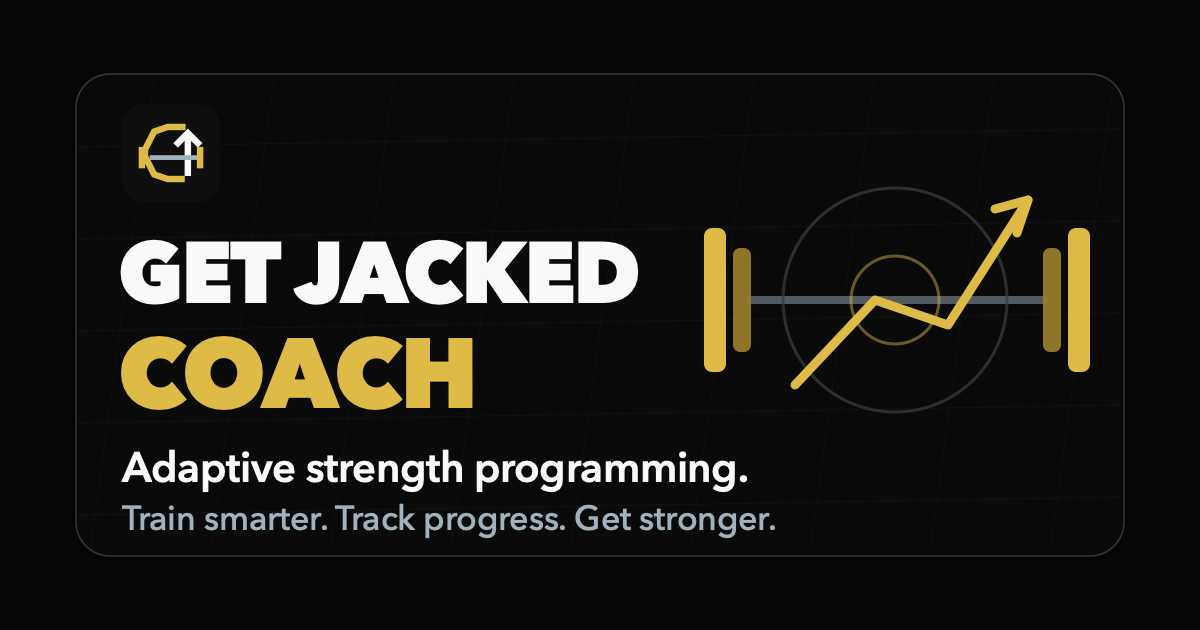
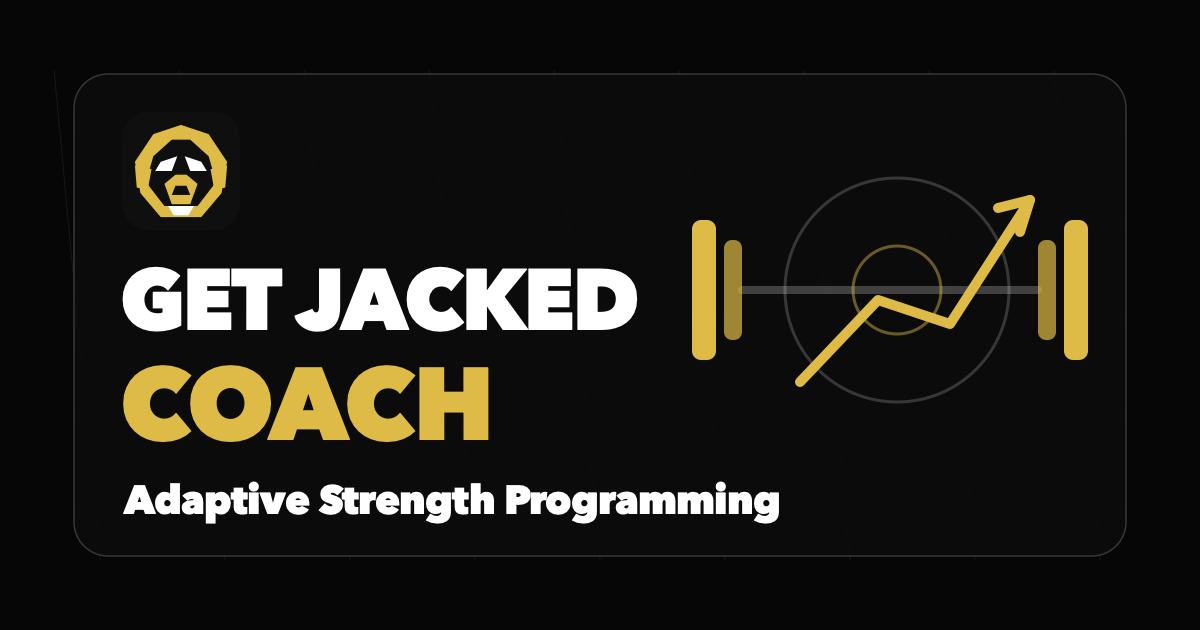
feat: redesign GetJackedCoach gorilla branding

diff --git a/frontend/src/components/Logo.jsx b/frontend/src/components/Logo.jsx
@@ -1,63 +1,76 @@
-function Logo({ showWordmark = true, className = '', markClassName = 'h-9 w-9' }) {
-  return (
-    <span className={`inline-flex items-center gap-3 ${className}`} aria-label="GetJackedCoach">
-      <svg
-        className={markClassName}
-        viewBox="0 0 64 64"
-        role="img"
-        aria-hidden="true"
-        xmlns="http://www.w3.org/2000/svg"
-      >
-        <rect width="64" height="64" rx="14" fill="#090A09" />
-        <path
-          d="M41.5 15H29.75C21.6 15 15 21.6 15 29.75v4.5C15 42.4 21.6 49 29.75 49H41"
-          fill="none"
-          stroke="#D4AF37"
-          strokeWidth="4"
-          strokeLinecap="square"
-          strokeLinejoin="miter"
-        />
-        <path
-          d="M43 47V19"
-          fill="none"
-          stroke="#F4F4F0"
-          strokeWidth="4"
-          strokeLinecap="square"
-        />
-        <path
-          d="M35 27L43 19L51 27"
-          fill="none"
-          stroke="#F4F4F0"
-          strokeWidth="4"
-          strokeLinecap="square"
-          strokeLinejoin="miter"
-        />
-        <path
-          d="M18 35H50"
-          fill="none"
-          stroke="#8FA3AD"
-          strokeWidth="3"
-          strokeLinecap="square"
-        />
-        <path d="M13 28V42M51 28V42" stroke="#D4AF37" strokeWidth="4" strokeLinecap="square" />
-        <path
-          d="M35.5 27.5C32.8 25.7 28.8 25.8 26.3 28.2C23 31.3 23.8 37.5 28 39.7C31.8 41.7 36.1 40 38.4 37.1"
-          fill="none"
-          stroke="#D4AF37"
-          strokeWidth="3"
-          strokeLinecap="square"
-          strokeLinejoin="miter"
-        />
-      </svg>
+const sizeClasses = {
+  sm: {
+    mark: 'h-7 w-7',
+    wordmark: 'text-[0.8rem]',
+    tagline: 'text-[0.48rem]',
+  },
+  md: {
+    mark: 'h-9 w-9',
+    wordmark: 'text-[0.95rem]',
+    tagline: 'text-[0.56rem]',
+  },
+  lg: {
+    mark: 'h-12 w-12',
+    wordmark: 'text-[1.15rem]',
+    tagline: 'text-[0.64rem]',
+  },
+};
 
-      {showWordmark && (
+function GorillaMark({ className = 'h-9 w-9' }) {
+  return (
+    <svg
+      className={className}
+      viewBox="0 0 64 64"
+      role="img"
+      aria-hidden="true"
+      xmlns="http://www.w3.org/2000/svg"
+    >
+      <rect width="64" height="64" rx="14" fill="#0D0D0D" />
+      <path d="M32 7L47 12L57 27L54 44L43 57H21L10 44L7 27L17 12L32 7Z" fill="#D4AF37" />
+      <path d="M17 24L27 15H37L47 24L51 38L41 51H23L13 38L17 24Z" fill="#0D0D0D" />
+      <path d="M21 27L30 24L27 32H18L21 27Z" fill="#FFFFFF" />
+      <path d="M43 27L34 24L37 32H46L43 27Z" fill="#FFFFFF" />
+      <path d="M23 39L29 34H35L41 39L37 50H27L23 39Z" fill="#D4AF37" />
+      <path d="M29 40H35L37 45H27L29 40Z" fill="#0D0D0D" />
+      <path d="M25 51H39L36 56H28L25 51Z" fill="#FFFFFF" />
+      <path d="M7 29L16 31L14 42L8 41L7 29Z" fill="#D4AF37" />
+      <path d="M57 29L48 31L50 42L56 41L57 29Z" fill="#D4AF37" />
+      <path d="M27 17L20 24L14 23L18 15L27 17Z" fill="#D4AF37" />
+      <path d="M37 17L44 24L50 23L46 15L37 17Z" fill="#D4AF37" />
+    </svg>
+  );
+}
+
+function Logo({
+  iconOnly = false,
+  showWordmark = true,
+  showTagline = false,
+  size = 'md',
+  className = '',
+  markClassName,
+  ariaLabel = 'GetJackedCoach',
+}) {
+  const resolvedSize = sizeClasses[size] || sizeClasses.md;
+  const shouldShowWordmark = showWordmark && !iconOnly;
+
+  return (
+    <span className={`inline-flex items-center gap-3 ${className}`} aria-label={ariaLabel}>
+      <GorillaMark className={markClassName || resolvedSize.mark} />
+
+      {shouldShowWordmark && (
         <span className="leading-none">
-          <span className="block text-[0.95rem] font-black uppercase tracking-[-0.04em] text-[#F4F4F0]">
+          <span
+            className={`block font-black uppercase tracking-[-0.045em] text-[#FFFFFF] ${resolvedSize.wordmark}`}
+          >
             GETJACKED<span className="text-[#D4AF37]">COACH</span>
           </span>
-          <span className="mt-1 hidden text-[0.56rem] font-semibold uppercase tracking-[0.22em] text-[#8FA3AD] sm:block">
-            Train Smart. Get Stronger.
-          </span>
+          {showTagline && (
+            <span
+              className={`mt-1 hidden font-semibold tracking-[0.16em] text-[#8FA3AD] sm:block ${resolvedSize.tagline}`}
+            >
+              Adaptive Strength Programming
+            </span>
+          )}
         </span>
       )}
     </span>

diff --git a/frontend/src/pages/Home/Home.jsx b/frontend/src/pages/Home/Home.jsx
@@ -13,7 +13,7 @@ function Home() {
       </Suspense>
       <div className="relative z-10 flex min-h-[520px] flex-col justify-between gap-12">
         <div className="max-w-4xl">
-          <Logo className="mb-8" markClassName="h-12 w-12" />
+          <Logo className="mb-8" size="lg" showTagline />
           <p className="eyebrow">Strength Training Platform</p>
           <h1 className="mt-5 max-w-4xl text-5xl font-semibold tracking-[-0.045em] text-stone-50 sm:text-6xl lg:text-7xl">
             Train with numbers that actually mean something.